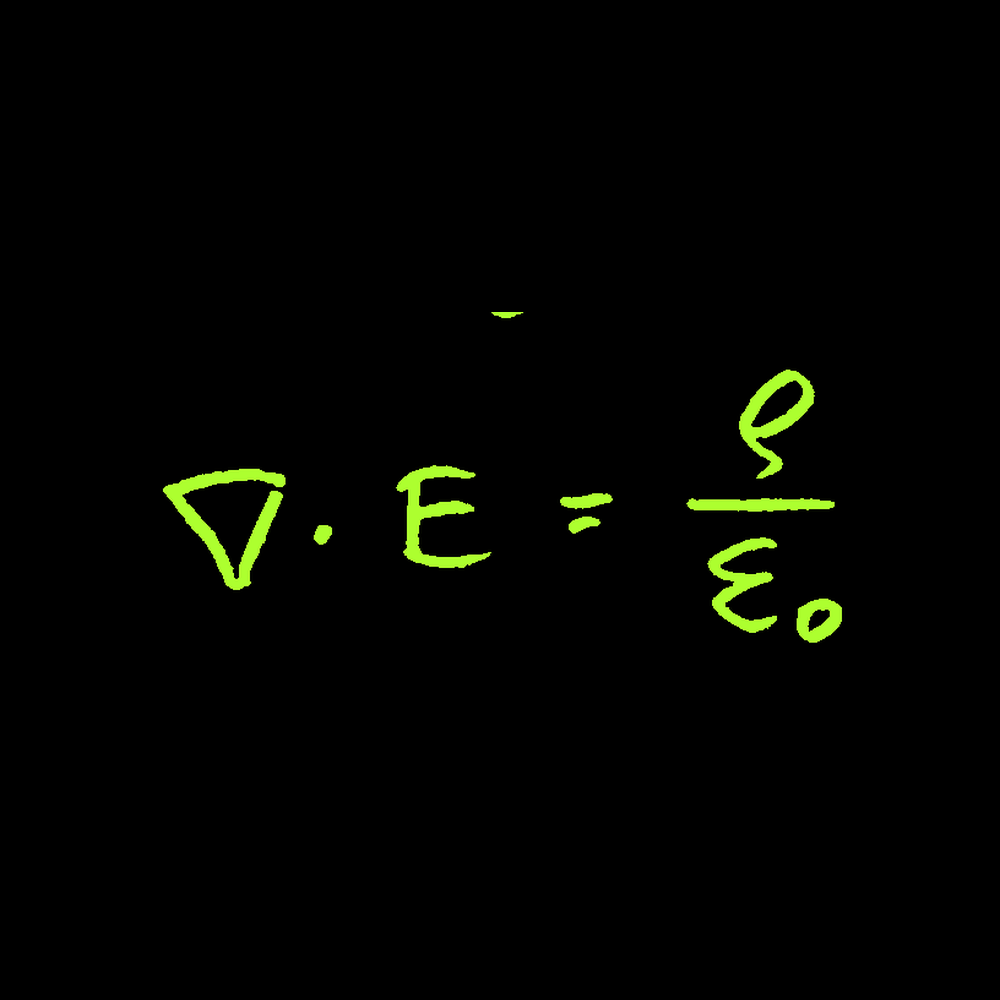
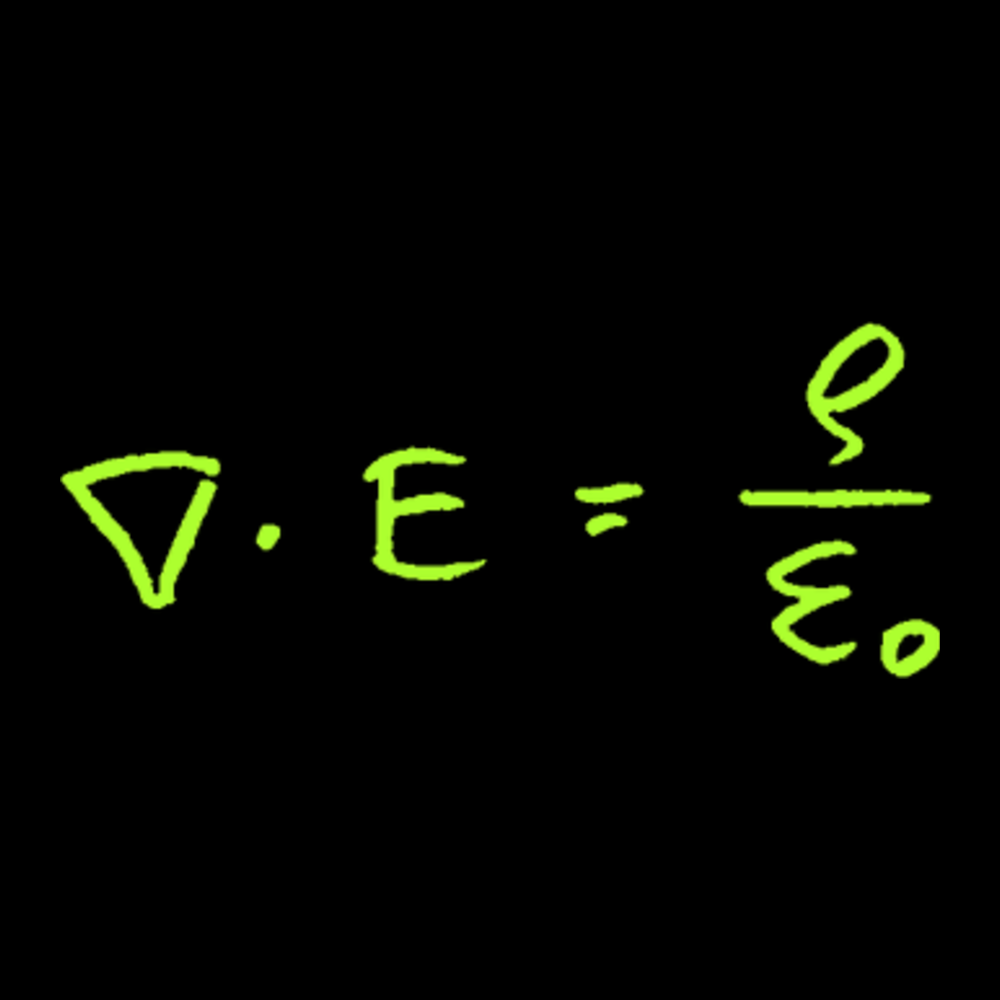
morpheus nur krass!

diff --git a/HTML/morpheus/morph.html b/HTML/morpheus/morph.html
@@ -350,6 +350,11 @@
             if (e.key === 'Escape') {
                 clearDraw();
             }
+            if ((e.key === 's' || e.key === 'S') && !e.metaKey && !e.ctrlKey && !e.shiftKey && !e.altKey) {
+                e.stopImmediatePropagation();
+                e.preventDefault();
+                savePreset();
+            }
         }, true);
 
         function onStrokeChange(val) {
@@ -554,8 +559,16 @@
             drawMorph(val / 100);
         }
 
+        let currentPresetIndex = null;
+        try {
+            const v = localStorage.getItem('morph-current-preset');
+            if (v !== null) currentPresetIndex = +v;
+        } catch (_) {}
+
         function loadPreset(index) {
             clearDraw();
+            currentPresetIndex = index;
+            try { localStorage.setItem('morph-current-preset', String(index)); } catch (_) {}
             const img = new Image();
             img.onload = () => {
                 const w = 500, h = 500;
@@ -566,8 +579,59 @@
             };
             img.onerror = () => {
                 DebugWindow.log(`❌ FEHLT: presets/formula-${index}.png konnte nicht geladen werden!`);
+                currentPresetIndex = null;
+                try { localStorage.removeItem('morph-current-preset'); } catch (_) {}
             };
             img.src = `presets/formula-${index}.png`;
+        }
+
+        function savePreset() {
+            DebugWindow.log(`💾 savePreset() called, currentPresetIndex=${currentPresetIndex}`);
+            if (currentPresetIndex === null) {
+                DebugWindow.log('⚠ Kein Preset geladen — Formel-Button klicken um Preset-Index zu setzen');
+                return;
+            }
+            // 1. Read 1000×1000 canvas, find bounding box of non-black content
+            const imgData = drawCtx.getImageData(0, 0, 1000, 1000);
+            const d = imgData.data;
+            let minX = 1000, minY = 1000, maxX = -1, maxY = -1;
+            for (let y = 0; y < 1000; y++) {
+                for (let x = 0; x < 1000; x++) {
+                    const i = (y * 1000 + x) * 4;
+                    if (d[i] > 30 || d[i+1] > 30 || d[i+2] > 30) {
+                        if (x < minX) minX = x;
+                        if (x > maxX) maxX = x;
+                        if (y < minY) minY = y;
+                        if (y > maxY) maxY = y;
+                    }
+                }
+            }
+            if (maxX < 0) {
+                DebugWindow.log('⚠ Canvas ist leer — nichts zu speichern');
+                return;
+            }
+            const cw = maxX - minX + 1;
+            const ch = maxY - minY + 1;
+            DebugWindow.log(`  content bbox: ${minX},${minY} → ${maxX},${maxY}  (${cw}×${ch})`);
+            // 2. Build output canvas 1000×1000 black, paste content scaled with 60px margin
+            const out = document.createElement('canvas');
+            out.width = 1000; out.height = 1000;
+            const oc = out.getContext('2d');
+            oc.fillStyle = '#000';
+            oc.fillRect(0, 0, 1000, 1000);
+            const MARGIN = 60;
+            const scale = Math.min((1000 - 2*MARGIN) / cw, (1000 - 2*MARGIN) / ch);
+            const nw = cw * scale, nh = ch * scale;
+            const ox = (1000 - nw) / 2, oy = (1000 - nh) / 2;
+            oc.imageSmoothingEnabled = true;
+            oc.imageSmoothingQuality = 'high';
+            oc.drawImage(drawCanvas, minX, minY, cw, ch, ox, oy, nw, nh);
+            // 3. Download
+            const link = document.createElement('a');
+            link.href = out.toDataURL('image/png');
+            link.download = `formula-${currentPresetIndex}.png`;
+            link.click();
+            DebugWindow.log(`💾 Download: formula-${currentPresetIndex}.png  (cropped+rescaled ${cw}×${ch} → ${Math.round(nw)}×${Math.round(nh)} @ ${Math.round(ox)},${Math.round(oy)})`);
         }
 
         let eraserMode = false;
